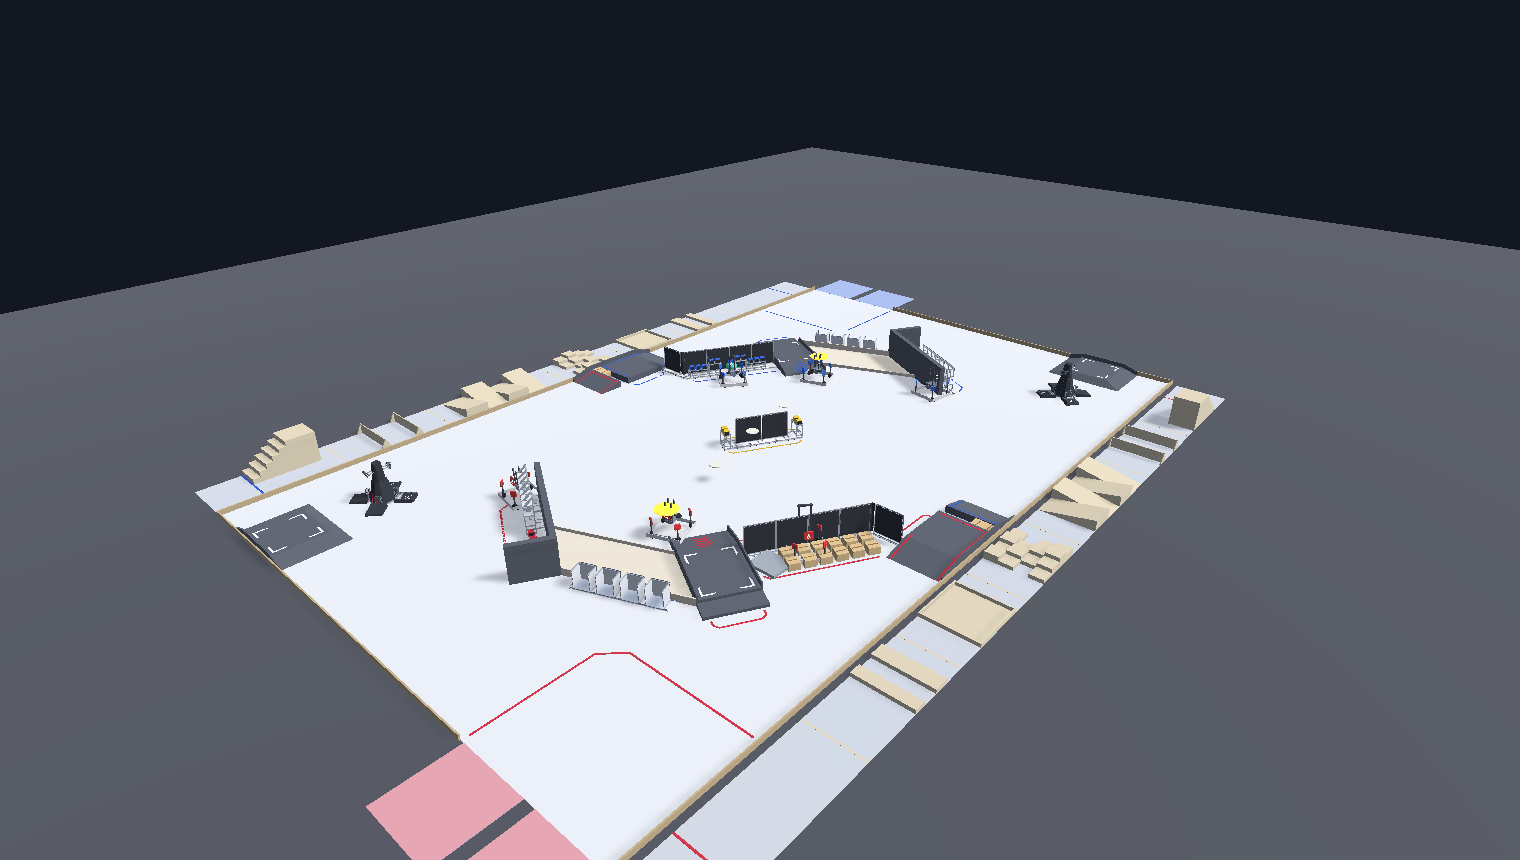
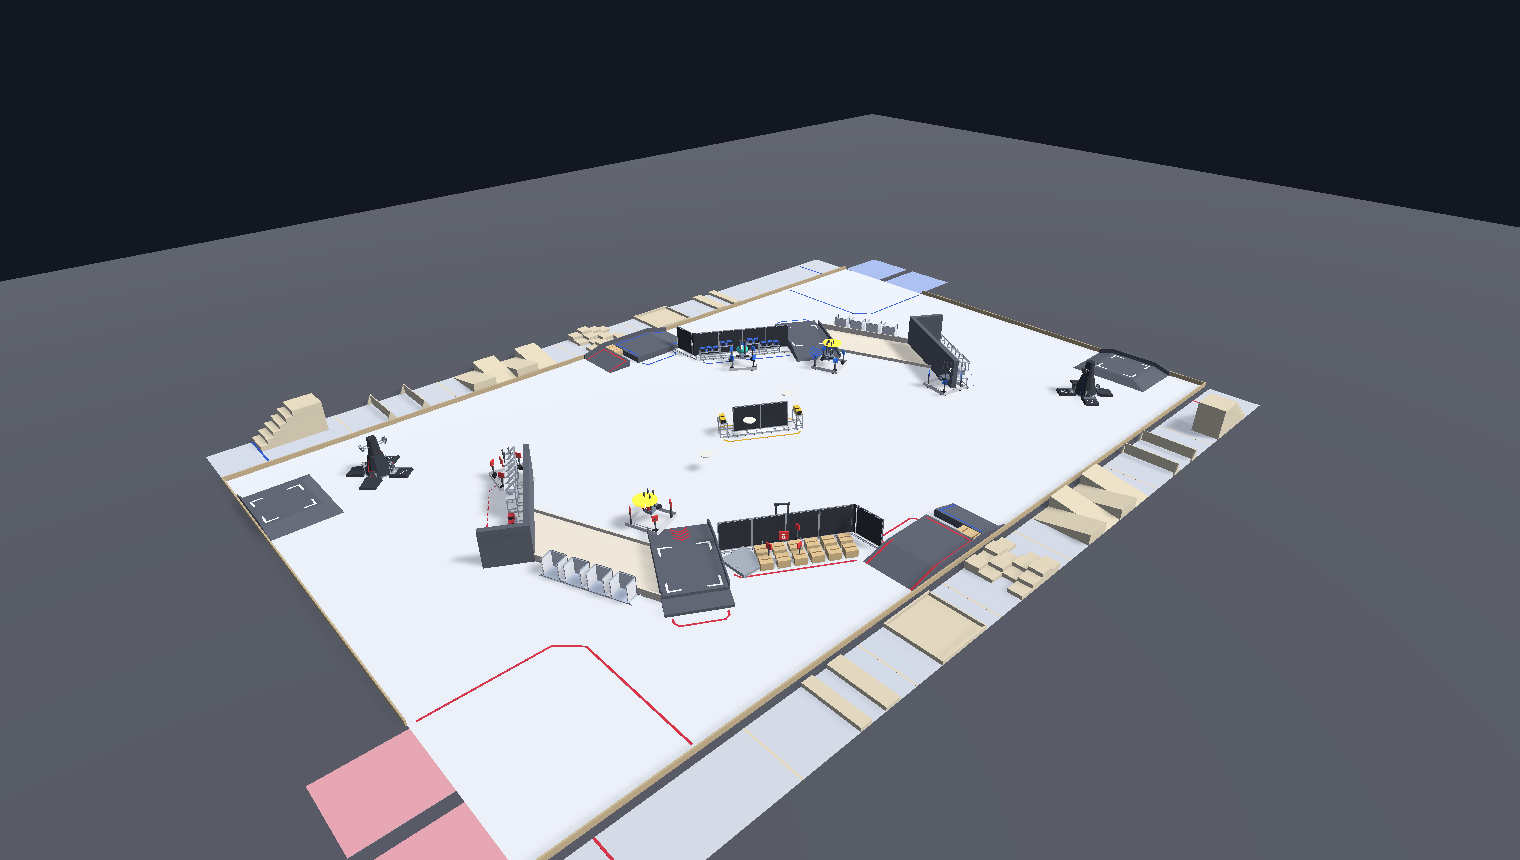
TutorialShots: 全景はフィールド全体 (補給エリア込み) が余白付きで収まるようカメラの位置と注視点を自動で合わせる

Changed region(s): [[0.1237, 0.3023, 0.8349, 1.0], [0.0, 0.1209, 1.0, 0.3628], [0.3711, 0.7558, 0.4329, 0.786]]

diff --git a/Assets/Editor/TutorialShots.cs b/Assets/Editor/TutorialShots.cs
@@ -39,6 +39,9 @@ namespace CoreSim.Editor
             public bool Strider;
             public Vector3 StriderPos;
             public float StriderYaw;
+            /// <summary>true なら、Camera は「向き」として使い、フィールド全体 (補給エリア込み) が余白 Margin で収まる位置と注視点を自動で決める。</summary>
+            public bool FitField;
+            public float Margin = 0.04f;
         }
 
         /// <summary>構図の一覧。カメラや機体の位置はここを書き換えて調整する。</summary>
@@ -47,8 +50,8 @@ namespace CoreSim.Editor
             new Shot
             {
                 Name = "intro_field", Width = 1520, Height = 860, Fov = 52f,
-                // 注視点をフィールドの中心 (原点) にすると、フィールドの中心が画像の中心に来る
-                Camera = new Vector3(-15f, 12.5f, -16f), LookAt = new Vector3(0f, 0f, 0f),
+                // フィールド全体 (補給エリア込み 27.6 x 15 m) が収まるよう、Camera の向きだけ使って位置と注視点は自動で合わせる
+                Camera = new Vector3(-0.45f, 0.95f, -0.7f), LookAt = new Vector3(0f, 0f, 0f), FitField = true, Margin = 0.03f,
                 Bots = new[]
                 {
                     new Bot(RobotKind.Attacker, true, new Vector3(-5f, 0f, -1.5f), 70f, head: true),
@@ -168,9 +171,14 @@ namespace CoreSim.Editor
                 var camGo = new GameObject("ShotCamera");
                 camGo.transform.SetParent(temp.transform, false);
                 var cam = camGo.AddComponent<Camera>();
+                cam.fieldOfView = shot.Fov;
                 cam.transform.position = shot.Camera;
                 cam.transform.LookAt(shot.LookAt);
-                cam.fieldOfView = shot.Fov;
+                if (shot.FitField)
+                {
+                    cam.aspect = (float)shot.Width / shot.Height;
+                    FrameBounds(cam, new Bounds(new Vector3(0f, 0.5f, 0f), new Vector3(27.6f, 1.2f, 15f)), shot.Camera.normalized, shot.Margin);
+                }
                 cam.nearClipPlane = 0.05f;
                 cam.farClipPlane = 200f;
                 cam.clearFlags = CameraClearFlags.SolidColor;
@@ -202,6 +210,39 @@ namespace CoreSim.Editor
                 Object.DestroyImmediate(temp);
                 UnityEngine.AI.NavMesh.RemoveAllNavMeshData();
             }
+        }
+
+        /// <summary>
+        /// 与えた向きから bounds の 8 隅が画面に収まり、収まった矩形が画面の中央に来るようにカメラの位置と注視点を決める。
+        /// 距離を縮めたり伸ばしたりしながら数回繰り返す。
+        /// </summary>
+        private static void FrameBounds(Camera cam, Bounds bounds, Vector3 direction, float margin)
+        {
+            Vector3 target = bounds.center;
+            float distance = bounds.size.magnitude;
+            var corners = new Vector3[8];
+            for (int iter = 0; iter < 12; iter++)
+            {
+                cam.transform.position = target + direction * distance;
+                cam.transform.LookAt(target);
+                float minX = 1f, maxX = 0f, minY = 1f, maxY = 0f;
+                for (int i = 0; i < 8; i++)
+                {
+                    corners[i] = bounds.center + Vector3.Scale(bounds.extents, new Vector3((i & 1) == 0 ? -1f : 1f, (i & 2) == 0 ? -1f : 1f, (i & 4) == 0 ? -1f : 1f));
+                    Vector3 v = cam.WorldToViewportPoint(corners[i]);
+                    minX = Mathf.Min(minX, v.x); maxX = Mathf.Max(maxX, v.x);
+                    minY = Mathf.Min(minY, v.y); maxY = Mathf.Max(maxY, v.y);
+                }
+                // 画面の中心へ寄せる: 中心のずれぶんだけ注視点をカメラの右・上方向に動かす
+                float cx = (minX + maxX) / 2f - 0.5f, cy = (minY + maxY) / 2f - 0.5f;
+                float viewH = 2f * distance * Mathf.Tan(cam.fieldOfView * 0.5f * Mathf.Deg2Rad);
+                target += cam.transform.right * (cx * viewH * cam.aspect) + cam.transform.up * (cy * viewH);
+                // 余白を残して収まるように距離を調整する
+                float span = Mathf.Max((maxX - minX) / (1f - 2f * margin), (maxY - minY) / (1f - 2f * margin));
+                distance *= Mathf.Lerp(1f, span, 0.8f);
+            }
+            cam.transform.position = target + direction * distance;
+            cam.transform.LookAt(target);
         }
 
         /// <summary>Edit モードでは物理が回らないので、関節の目標角をそのまま姿勢に反映する (見た目だけ)。</summary>
